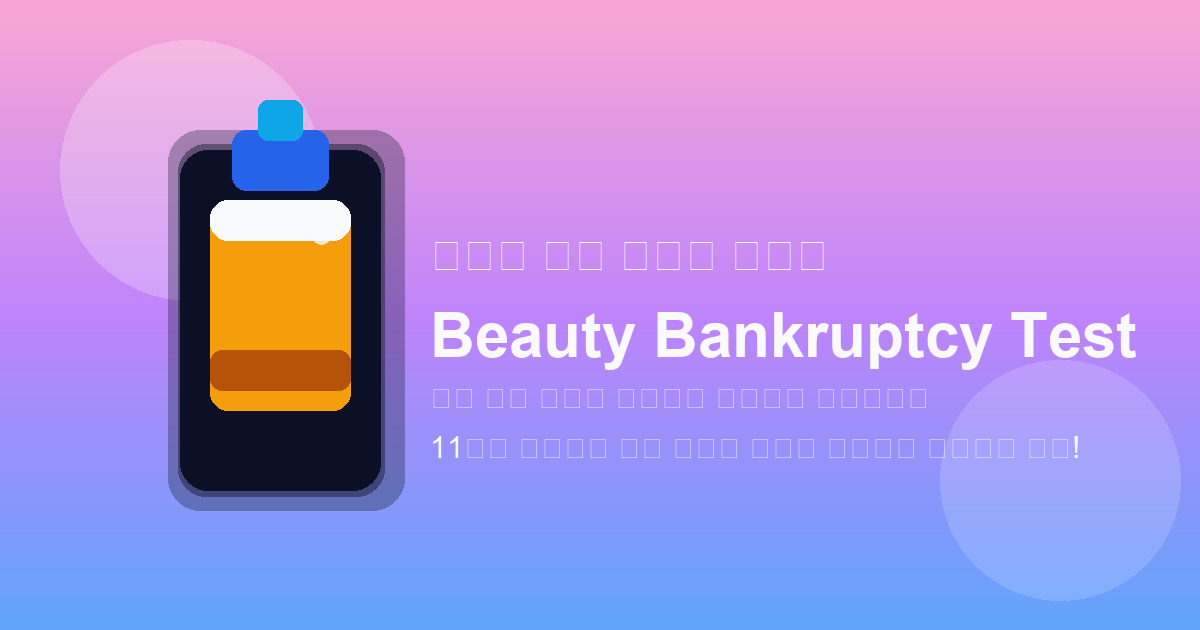
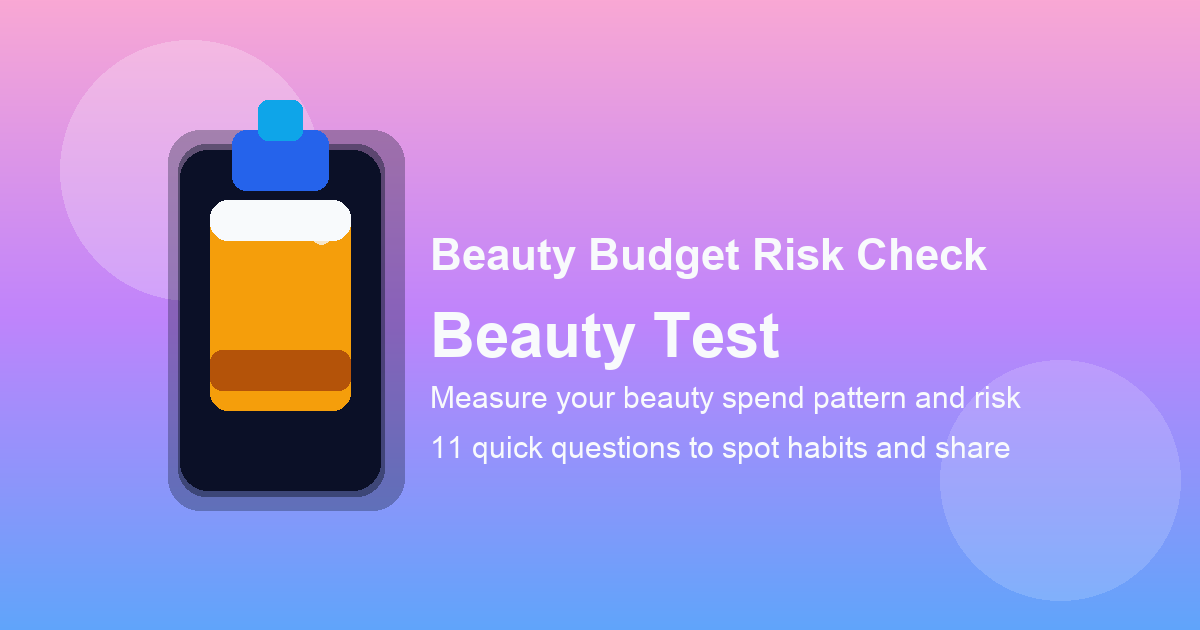
og

Changed region(s): [[0.3392, 0.4825, 0.9558, 0.6635], [0.3392, 0.3619, 0.8325, 0.4524], [0.37, 0.6937, 0.8633, 0.7238]]

diff --git a/app/layout.tsx b/app/layout.tsx
@@ -20,7 +20,7 @@ export const metadata: Metadata = {
         url: ogImage,
         width: 1200,
         height: 630,
-        alt: '꾸밈비 파산 위험도 테스트 미리보기',
+        alt: 'Beauty Test preview',
       },
     ],
   },
